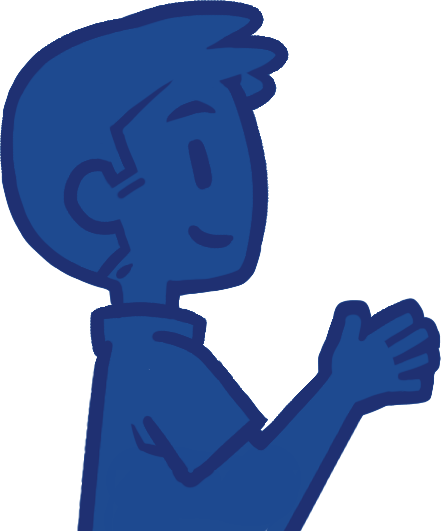
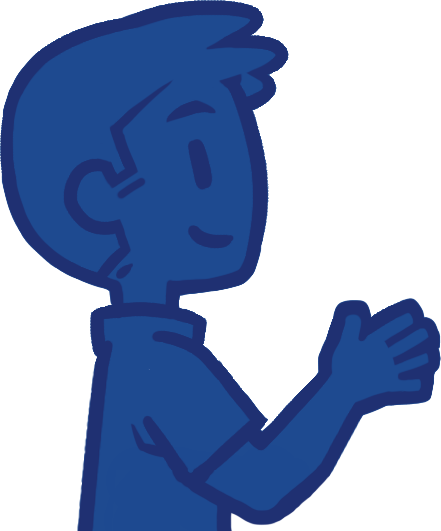
Fixes anchor point of bottom left characters

Changed region(s): [[0.4422, 0.8738, 0.737, 1.0]]

diff --git a/js/shared.js b/js/shared.js
@@ -117,6 +117,11 @@ revealEls.forEach(el => revealObserver.observe(el));
   const chars = container.querySelectorAll('.bottom-char');
   if (!chars.length) return;
 
+  // Pivot point: percentage from top of image. The image is shifted
+  // down so this point sits at the bottom of the screen.
+  const pivotY = 90; // %
+  const offsetY = 100 - pivotY; // how far to push image down
+
   // Per-character state
   const state = Array.from(chars).map((el, i) => ({
     el,
@@ -155,12 +160,16 @@ revealEls.forEach(el => revealObserver.observe(el));
   updateVisibility();
   window.addEventListener('scroll', updateVisibility, { passive: true });
 
+  function setTransform(s, angle) {
+    s.img.style.transform = 'translateY(' + offsetY + '%) rotate(' + angle + 'deg)';
+  }
+
   function startIdleAnimation(s) {
     let t = s.phase;
     function tick() {
       t += 0.016;
       const angle = Math.sin(t * s.idleSpeed) * s.idleMaxRotation;
-      s.img.style.transform = 'rotate(' + angle + 'deg)';
+      setTransform(s, angle);
       s.idleId = requestAnimationFrame(tick);
     }
     tick();
@@ -187,7 +196,7 @@ revealEls.forEach(el => revealObserver.observe(el));
       const p = elapsed / duration;
 
       if (p >= 1) {
-        s.img.style.transform = 'rotate(0deg)';
+        setTransform(s, 0);
         s.animating = false;
         startIdleAnimation(s);
         return;
@@ -195,7 +204,7 @@ revealEls.forEach(el => revealObserver.observe(el));
 
       const envelope = Math.sin(p * Math.PI);
       const angle = envelope * Math.sin(p * Math.PI * 8) * 6;
-      s.img.style.transform = 'rotate(' + angle + 'deg)';
+      setTransform(s, angle);
       s.animId = requestAnimationFrame(tick);
     }
     s.animId = requestAnimationFrame(tick);
@@ -203,6 +212,7 @@ revealEls.forEach(el => revealObserver.observe(el));
 
   // Start idle for each and attach click handlers
   state.forEach(s => {
+    s.img.style.transformOrigin = '50% ' + pivotY + '%';
     startIdleAnimation(s);
     s.el.addEventListener('click', () => doClickAnimation(s));
   });

diff --git a/styles/shared.css b/styles/shared.css
@@ -418,7 +418,7 @@ body {
   display: block;
   width: 100%;
   height: auto;
-  transform-origin: 50% 80%;
+  transform-origin: 50% 10%;
 }
 
 /* ===================== FOOTER ===================== */
